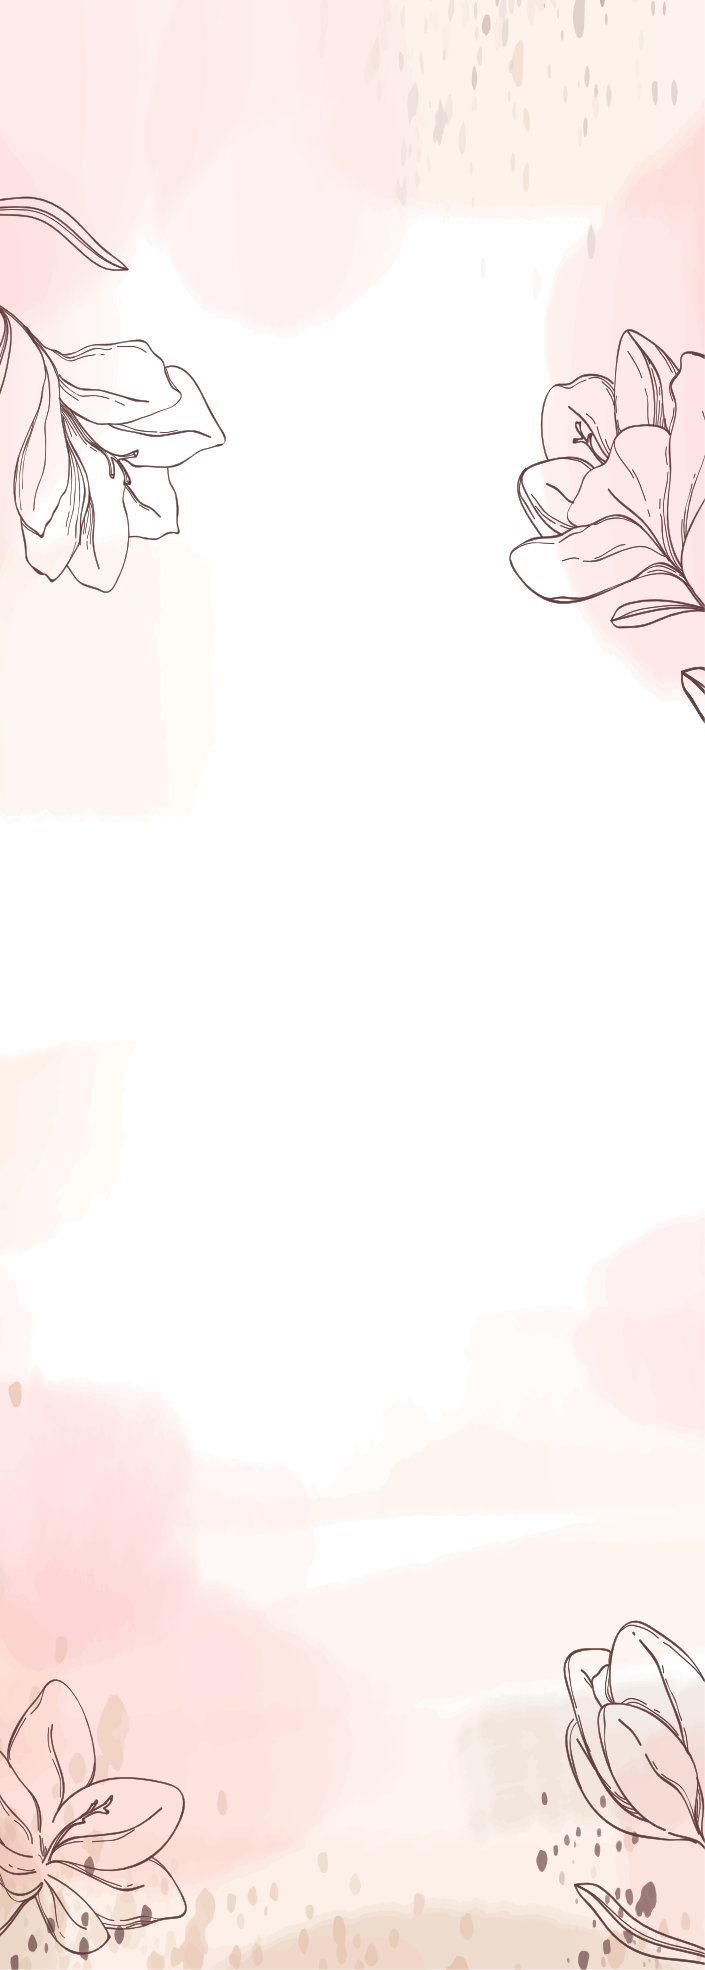
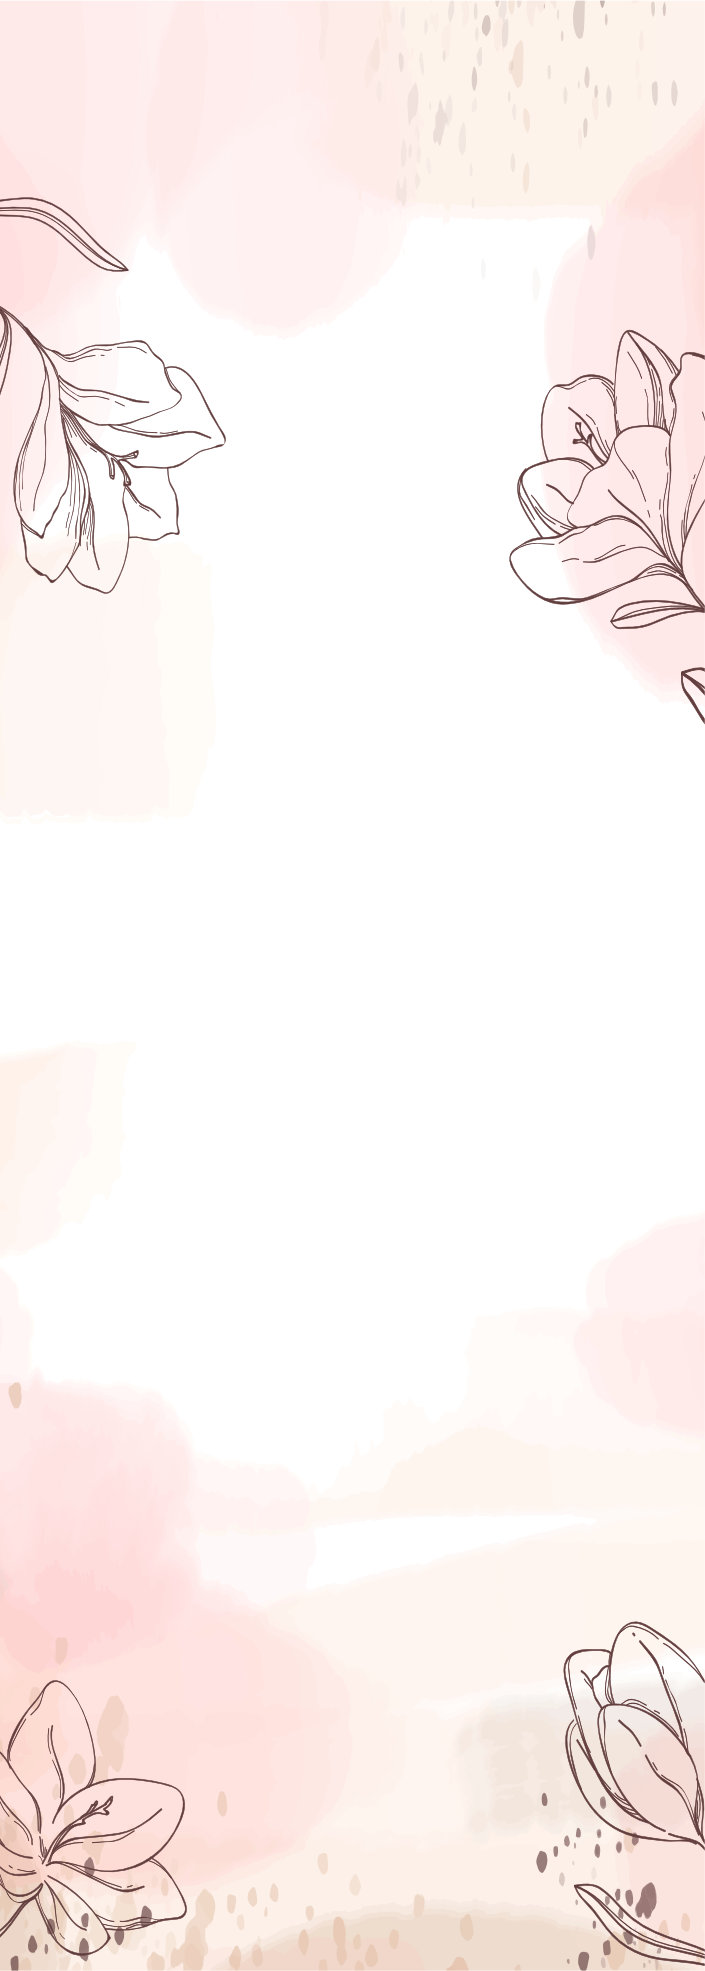
Add files via upload

diff --git a/index.html b/index.html
@@ -14,9 +14,9 @@
   <meta name="og:type" content="website">
 
   <meta name="og:url" content="https://akramxfarihah.github.io/kad-kahwin/">
-  <meta name="og:image" content="img/preview.png">
-  <meta name="og:image:width" content="800">
-  <meta name="og:image:height" content="800">
+  <meta name="og:image" content="img/preview-whatsapp.png">
+  <meta name="og:image:width" content="300">
+  <meta name="og:image:height" content="300">
 
   <meta name="twitter:image" content="img/preview.png">
   <meta name="twitter:card" content="summary_large_image">
